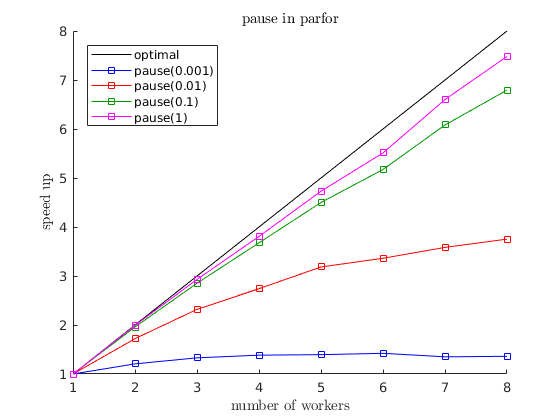
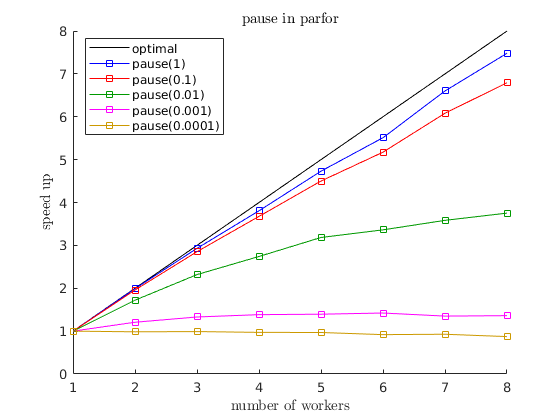
pause in parfor added

diff --git a/matlab/sample_parfor_troubles.m b/matlab/sample_parfor_troubles.m
@@ -4,7 +4,7 @@ clear all
 
 tic
 parfor t=1:100
-    pause(0.001)
+    pause(0.0001)
 end
 toc
 
